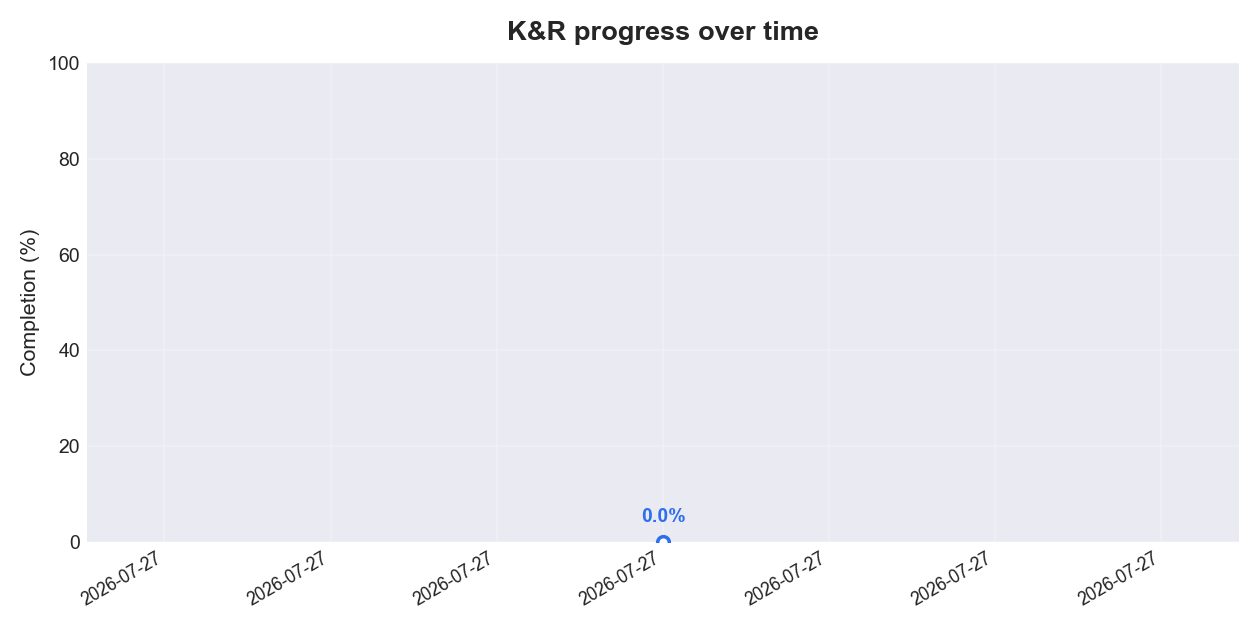
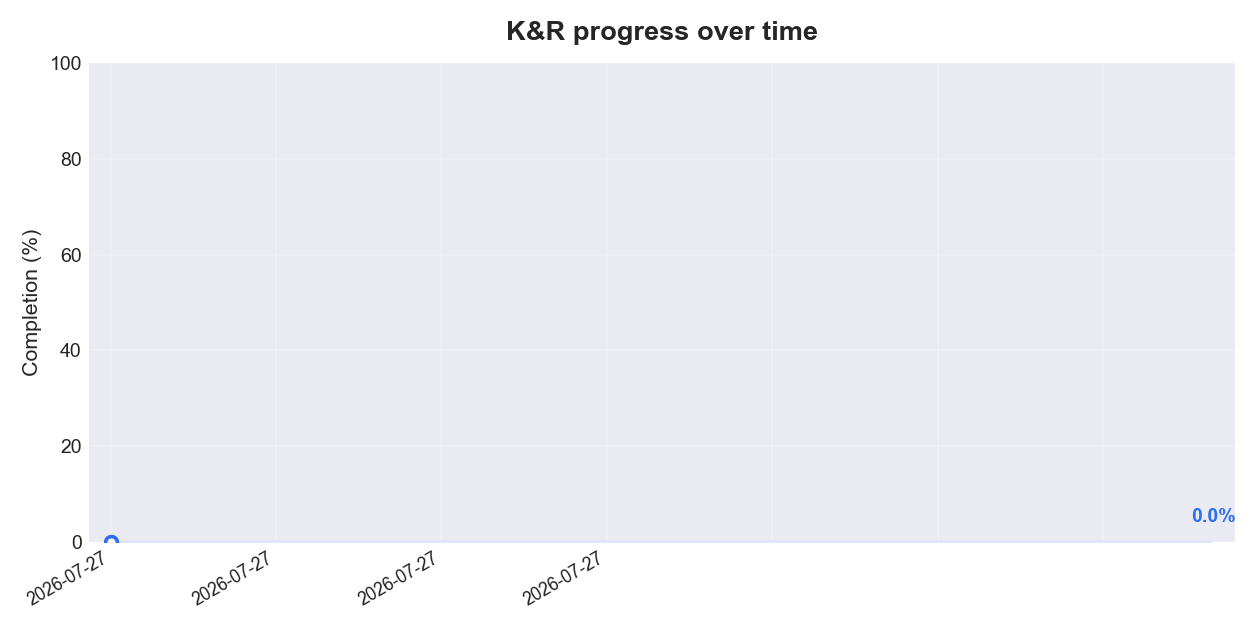
Add per-subsection breakdown to tracker

diff --git a/scripts/update_tracker.py b/scripts/update_tracker.py
@@ -48,97 +48,97 @@ SUMMARY_PLACEHOLDER = "<!-- placeholder:summary -->"
 # ---------------------------------------------------------------------------
 KR = [
     (1, "ch01-tutorial-intro", "A Tutorial Introduction", [
-        ("1.1", "1.1-getting-started"),
-        ("1.2", "1.2-variables-arithmetic"),
-        ("1.3", "1.3-for-statement"),
-        ("1.4", "1.4-symbolic-constants"),
-        ("1.5", "1.5-character-input-output"),
-        ("1.6", "1.6-arrays"),
-        ("1.7", "1.7-functions"),
-        ("1.8", "1.8-arguments-call-by-value"),
-        ("1.9", "1.9-character-arrays"),
-        ("1.10", "1.10-external-variables-scope"),
+        ("1.1", "Getting Started", "1.1-getting-started"),
+        ("1.2", "Variables and Arithmetic Expressions", "1.2-variables-arithmetic"),
+        ("1.3", "The for statement", "1.3-for-statement"),
+        ("1.4", "Symbolic Constants", "1.4-symbolic-constants"),
+        ("1.5", "Character Input and Output", "1.5-character-input-output"),
+        ("1.6", "Arrays", "1.6-arrays"),
+        ("1.7", "Functions", "1.7-functions"),
+        ("1.8", "Arguments - Call by Value", "1.8-arguments-call-by-value"),
+        ("1.9", "Character Arrays", "1.9-character-arrays"),
+        ("1.10", "External Variables and Scope", "1.10-external-variables-scope"),
     ]),
     (2, "ch02-types-operators-expressions", "Types, Operators and Expressions", [
-        ("2.1", "2.1-variable-names"),
-        ("2.2", "2.2-data-types-sizes"),
-        ("2.3", "2.3-constants"),
-        ("2.4", "2.4-declarations"),
-        ("2.5", "2.5-arithmetic-operators"),
-        ("2.6", "2.6-relational-logical-operators"),
-        ("2.7", "2.7-type-conversions"),
-        ("2.8", "2.8-increment-decrement-operators"),
-        ("2.9", "2.9-bitwise-operators"),
-        ("2.10", "2.10-assignment-operators-expressions"),
-        ("2.11", "2.11-conditional-expressions"),
-        ("2.12", "2.12-precedence-order-evaluation"),
+        ("2.1", "Variable Names", "2.1-variable-names"),
+        ("2.2", "Data Types and Sizes", "2.2-data-types-sizes"),
+        ("2.3", "Constants", "2.3-constants"),
+        ("2.4", "Declarations", "2.4-declarations"),
+        ("2.5", "Arithmetic Operators", "2.5-arithmetic-operators"),
+        ("2.6", "Relational and Logical Operators", "2.6-relational-logical-operators"),
+        ("2.7", "Type Conversions", "2.7-type-conversions"),
+        ("2.8", "Increment and Decrement Operators", "2.8-increment-decrement-operators"),
+        ("2.9", "Bitwise Operators", "2.9-bitwise-operators"),
+        ("2.10", "Assignment Operators and Expressions", "2.10-assignment-operators-expressions"),
+        ("2.11", "Conditional Expressions", "2.11-conditional-expressions"),
+        ("2.12", "Precedence and Order of Evaluation", "2.12-precedence-order-evaluation"),
     ]),
     (3, "ch03-control-flow", "Control Flow", [
-        ("3.1", "3.1-statements-blocks"),
-        ("3.2", "3.2-if-else"),
-        ("3.3", "3.3-else-if"),
-        ("3.4", "3.4-switch"),
-        ("3.5", "3.5-loops-while-for"),
-        ("3.6", "3.6-loops-do-while"),
-        ("3.7", "3.7-break-continue"),
-        ("3.8", "3.8-goto-labels"),
+        ("3.1", "Statements and Blocks", "3.1-statements-blocks"),
+        ("3.2", "If-Else", "3.2-if-else"),
+        ("3.3", "Else-If", "3.3-else-if"),
+        ("3.4", "Switch", "3.4-switch"),
+        ("3.5", "Loops - While and For", "3.5-loops-while-for"),
+        ("3.6", "Loops - Do-While", "3.6-loops-do-while"),
+        ("3.7", "Break and Continue", "3.7-break-continue"),
+        ("3.8", "Goto and labels", "3.8-goto-labels"),
     ]),
     (4, "ch04-functions-program-structure", "Functions and Program Structure", [
-        ("4.1", "4.1-basics-of-functions"),
-        ("4.2", "4.2-functions-returning-non-integers"),
-        ("4.3", "4.3-external-variables"),
-        ("4.4", "4.4-scope-rules"),
-        ("4.5", "4.5-header-files"),
-        ("4.6", "4.6-static-variables"),
-        ("4.7", "4.7-register-variables"),
-        ("4.8", "4.8-block-structure"),
-        ("4.9", "4.9-initialization"),
-        ("4.10", "4.10-recursion"),
-        ("4.11", "4.11-c-preprocessor"),
+        ("4.1", "Basics of Functions", "4.1-basics-of-functions"),
+        ("4.2", "Functions Returning Non-integers", "4.2-functions-returning-non-integers"),
+        ("4.3", "External Variables", "4.3-external-variables"),
+        ("4.4", "Scope Rules", "4.4-scope-rules"),
+        ("4.5", "Header Files", "4.5-header-files"),
+        ("4.6", "Static Variables", "4.6-static-variables"),
+        ("4.7", "Register Variables", "4.7-register-variables"),
+        ("4.8", "Block Structure", "4.8-block-structure"),
+        ("4.9", "Initialization", "4.9-initialization"),
+        ("4.10", "Recursion", "4.10-recursion"),
+        ("4.11", "The C Preprocessor", "4.11-c-preprocessor"),
     ]),
     (5, "ch05-pointers-arrays", "Pointers and Arrays", [
-        ("5.1", "5.1-pointers-addresses"),
-        ("5.2", "5.2-pointers-function-arguments"),
-        ("5.3", "5.3-pointers-arrays"),
-        ("5.4", "5.4-address-arithmetic"),
-        ("5.5", "5.5-character-pointers-functions"),
-        ("5.6", "5.6-pointer-arrays-pointers-to-pointers"),
-        ("5.7", "5.7-multi-dimensional-arrays"),
-        ("5.8", "5.8-initialization-pointer-arrays"),
-        ("5.9", "5.9-pointers-vs-multi-dimensional-arrays"),
-        ("5.10", "5.10-command-line-arguments"),
-        ("5.11", "5.11-pointers-to-functions"),
-        ("5.12", "5.12-complicated-declarations"),
+        ("5.1", "Pointers and Addresses", "5.1-pointers-addresses"),
+        ("5.2", "Pointers and Function Arguments", "5.2-pointers-function-arguments"),
+        ("5.3", "Pointers and Arrays", "5.3-pointers-arrays"),
+        ("5.4", "Address Arithmetic", "5.4-address-arithmetic"),
+        ("5.5", "Character Pointers and Functions", "5.5-character-pointers-functions"),
+        ("5.6", "Pointer Arrays; Pointers to Pointers", "5.6-pointer-arrays-pointers-to-pointers"),
+        ("5.7", "Multi-dimensional Arrays", "5.7-multi-dimensional-arrays"),
+        ("5.8", "Initialization of Pointer Arrays", "5.8-initialization-pointer-arrays"),
+        ("5.9", "Pointers vs. Multi-dimensional Arrays", "5.9-pointers-vs-multi-dimensional-arrays"),
+        ("5.10", "Command-line Arguments", "5.10-command-line-arguments"),
+        ("5.11", "Pointers to Functions", "5.11-pointers-to-functions"),
+        ("5.12", "Complicated Declarations", "5.12-complicated-declarations"),
     ]),
     (6, "ch06-structures", "Structures", [
-        ("6.1", "6.1-basics-of-structures"),
-        ("6.2", "6.2-structures-functions"),
-        ("6.3", "6.3-arrays-of-structures"),
-        ("6.4", "6.4-pointers-to-structures"),
-        ("6.5", "6.5-self-referential-structures"),
-        ("6.6", "6.6-table-lookup"),
-        ("6.7", "6.7-typedef"),
-        ("6.8", "6.8-unions"),
-        ("6.9", "6.9-bit-fields"),
+        ("6.1", "Basics of Structures", "6.1-basics-of-structures"),
+        ("6.2", "Structures and Functions", "6.2-structures-functions"),
+        ("6.3", "Arrays of Structures", "6.3-arrays-of-structures"),
+        ("6.4", "Pointers to Structures", "6.4-pointers-to-structures"),
+        ("6.5", "Self-referential Structures", "6.5-self-referential-structures"),
+        ("6.6", "Table Lookup", "6.6-table-lookup"),
+        ("6.7", "Typedef", "6.7-typedef"),
+        ("6.8", "Unions", "6.8-unions"),
+        ("6.9", "Bit-fields", "6.9-bit-fields"),
     ]),
     (7, "ch07-input-output", "Input and Output", [
-        ("7.1", "7.1-standard-input-output"),
-        ("7.2", "7.2-formatted-output-printf"),
-        ("7.3", "7.3-variable-length-argument-lists"),
-        ("7.4", "7.4-formatted-input-scanf"),
-        ("7.5", "7.5-file-access"),
-        ("7.6", "7.6-error-handling-stderr-exit"),
-        ("7.7", "7.7-line-input-output"),
-        ("7.8", "7.8-miscellaneous-functions"),
+        ("7.1", "Standard Input and Output", "7.1-standard-input-output"),
+        ("7.2", "Formatted Output - printf", "7.2-formatted-output-printf"),
+        ("7.3", "Variable-length Argument Lists", "7.3-variable-length-argument-lists"),
+        ("7.4", "Formatted Input - Scanf", "7.4-formatted-input-scanf"),
+        ("7.5", "File Access", "7.5-file-access"),
+        ("7.6", "Error Handling - Stderr and Exit", "7.6-error-handling-stderr-exit"),
+        ("7.7", "Line Input and Output", "7.7-line-input-output"),
+        ("7.8", "Miscellaneous Functions", "7.8-miscellaneous-functions"),
     ]),
     (8, "ch08-unix-system-interface", "The UNIX System Interface", [
-        ("8.1", "8.1-file-descriptors"),
-        ("8.2", "8.2-low-level-io-read-write"),
-        ("8.3", "8.3-open-creat-close-unlink"),
-        ("8.4", "8.4-random-access-lseek"),
-        ("8.5", "8.5-example-implementation-fopen-getc"),
-        ("8.6", "8.6-example-listing-directories"),
-        ("8.7", "8.7-example-storage-allocator"),
+        ("8.1", "File Descriptors", "8.1-file-descriptors"),
+        ("8.2", "Low Level I/O - Read and Write", "8.2-low-level-io-read-write"),
+        ("8.3", "Open, Creat, Close, Unlink", "8.3-open-creat-close-unlink"),
+        ("8.4", "Random Access - Lseek", "8.4-random-access-lseek"),
+        ("8.5", "Example - An implementation of Fopen and Getc", "8.5-example-implementation-fopen-getc"),
+        ("8.6", "Example - Listing Directories", "8.6-example-listing-directories"),
+        ("8.7", "Example - A Storage Allocator", "8.7-example-storage-allocator"),
     ]),
 ]
 
@@ -199,7 +199,7 @@ def scan():
         chdir = os.path.join(REPO_ROOT, chfolder)
 
         sec_rows = []
-        for secnum, secfolder in sections:
+        for secnum, sectitle, secfolder in sections:
             secdir = os.path.join(chdir, secfolder)
             notes_path = os.path.join(secdir, "notes-%s.md" % secnum)
             ex_dir = os.path.join(secdir, "exercises")
@@ -207,6 +207,7 @@ def scan():
 
             sec_rows.append({
                 "number": secnum,
+                "title": sectitle,
                 "exists": os.path.isdir(secdir),
                 "notes_done": notes_is_real(notes_path),
                 "ex_total": count_exercises(ex_md),
@@ -345,12 +346,16 @@ def write_tracker(chapters, t):
     lines.append("| Chapter summaries | %d | %d |" % (t["summaries_done"], t["total_chapters"]))
     lines.append("| Exercises solved | %d | %d |" % (t["ex_solved"], t["ex_total"]))
     lines.append("")
+    lines.append("## Progress over time")
+    lines.append("")
     lines.append("![Progress over time](progress/progress.png)")
     lines.append("")
+
+    # --- By chapter -------------------------------------------------------
     lines.append("## By chapter")
     lines.append("")
     lines.append("| Chapter | Notes | Summary | Exercises |")
-    lines.append("| --- | --- | --- | --- |")
+    lines.append("| --- | :---: | :---: | :---: |")
 
     for c in chapters:
         notes_done = sum(1 for s in c["sections"] if s["notes_done"])
@@ -364,9 +369,35 @@ def write_tracker(chapters, t):
             name, notes_done, notes_total, summary_cell, ex_solved, ex_total))
 
     lines.append("")
-    lines.append("Legend: Summary shows `yes` when written, `no` when the chapter's "
-                 "sections are all done but the summary is still missing, and `-` "
-                 "while the chapter is not finished yet.")
+    lines.append("**Legend (Summary column):** `yes` = summary written, "
+                 "`no` = all sections in the chapter are done but the summary is "
+                 "not written yet, `-` = chapter not finished yet so no summary is "
+                 "expected.")
+    lines.append("")
+
+    # --- By subsection ----------------------------------------------------
+    lines.append("## By subsection")
+    lines.append("")
+    for c in chapters:
+        lines.append("### Chapter %d - %s" % (c["number"], c["title"]))
+        lines.append("")
+        lines.append("| Section | Title | Notes | Exercises |")
+        lines.append("| :---: | --- | :---: | :---: |")
+        for s in c["sections"]:
+            if not s["exists"]:
+                notes_cell = "-"
+            elif s["notes_done"]:
+                notes_cell = "yes"
+            else:
+                notes_cell = "no"
+            solved = min(s["ex_solved"], s["ex_total"]) if s["ex_total"] else 0
+            lines.append("| %s | %s | %s | %d / %d |" % (
+                s["number"], s["title"], notes_cell, solved, s["ex_total"]))
+        lines.append("")
+
+    lines.append("**Legend (Notes column):** `yes` = notes written, "
+                 "`no` = section folder exists but notes are still empty, "
+                 "`-` = section folder not created yet.")
     lines.append("")
 
     with open(TRACKER_MD, "w", encoding="utf-8") as f:

diff --git a/TRACKER.md b/TRACKER.md
@@ -14,12 +14,14 @@ _Last updated: 2026-07-27_
 | Chapter summaries | 0 | 8 |
 | Exercises solved | 0 | 0 |
 
+## Progress over time
+
 ![Progress over time](progress/progress.png)
 
 ## By chapter
 
 | Chapter | Notes | Summary | Exercises |
-| --- | --- | --- | --- |
+| --- | :---: | :---: | :---: |
 | 1. A Tutorial Introduction | 0 / 10 | - | 0 / 0 |
 | 2. Types, Operators and Expressions | 0 / 12 | - | 0 / 0 |
 | 3. Control Flow | 0 / 8 | - | 0 / 0 |
@@ -29,4 +31,125 @@ _Last updated: 2026-07-27_
 | 7. Input and Output | 0 / 8 | - | 0 / 0 |
 | 8. The UNIX System Interface | 0 / 7 | - | 0 / 0 |
 
-Legend: Summary shows `yes` when written, `no` when the chapter's sections are all done but the summary is still missing, and `-` while the chapter is not finished yet.
+**Legend (Summary column):** `yes` = summary written, `no` = all sections in the chapter are done but the summary is not written yet, `-` = chapter not finished yet so no summary is expected.
+
+## By subsection
+
+### Chapter 1 - A Tutorial Introduction
+
+| Section | Title | Notes | Exercises |
+| :---: | --- | :---: | :---: |
+| 1.1 | Getting Started | - | 0 / 0 |
+| 1.2 | Variables and Arithmetic Expressions | - | 0 / 0 |
+| 1.3 | The for statement | - | 0 / 0 |
+| 1.4 | Symbolic Constants | - | 0 / 0 |
+| 1.5 | Character Input and Output | - | 0 / 0 |
+| 1.6 | Arrays | - | 0 / 0 |
+| 1.7 | Functions | - | 0 / 0 |
+| 1.8 | Arguments - Call by Value | - | 0 / 0 |
+| 1.9 | Character Arrays | - | 0 / 0 |
+| 1.10 | External Variables and Scope | - | 0 / 0 |
+
+### Chapter 2 - Types, Operators and Expressions
+
+| Section | Title | Notes | Exercises |
+| :---: | --- | :---: | :---: |
+| 2.1 | Variable Names | - | 0 / 0 |
+| 2.2 | Data Types and Sizes | - | 0 / 0 |
+| 2.3 | Constants | - | 0 / 0 |
+| 2.4 | Declarations | - | 0 / 0 |
+| 2.5 | Arithmetic Operators | - | 0 / 0 |
+| 2.6 | Relational and Logical Operators | - | 0 / 0 |
+| 2.7 | Type Conversions | - | 0 / 0 |
+| 2.8 | Increment and Decrement Operators | - | 0 / 0 |
+| 2.9 | Bitwise Operators | - | 0 / 0 |
+| 2.10 | Assignment Operators and Expressions | - | 0 / 0 |
+| 2.11 | Conditional Expressions | - | 0 / 0 |
+| 2.12 | Precedence and Order of Evaluation | - | 0 / 0 |
+
+### Chapter 3 - Control Flow
+
+| Section | Title | Notes | Exercises |
+| :---: | --- | :---: | :---: |
+| 3.1 | Statements and Blocks | - | 0 / 0 |
+| 3.2 | If-Else | - | 0 / 0 |
+| 3.3 | Else-If | - | 0 / 0 |
+| 3.4 | Switch | - | 0 / 0 |
+| 3.5 | Loops - While and For | - | 0 / 0 |
+| 3.6 | Loops - Do-While | - | 0 / 0 |
+| 3.7 | Break and Continue | - | 0 / 0 |
+| 3.8 | Goto and labels | - | 0 / 0 |
+
+### Chapter 4 - Functions and Program Structure
+
+| Section | Title | Notes | Exercises |
+| :---: | --- | :---: | :---: |
+| 4.1 | Basics of Functions | - | 0 / 0 |
+| 4.2 | Functions Returning Non-integers | - | 0 / 0 |
+| 4.3 | External Variables | - | 0 / 0 |
+| 4.4 | Scope Rules | - | 0 / 0 |
+| 4.5 | Header Files | - | 0 / 0 |
+| 4.6 | Static Variables | - | 0 / 0 |
+| 4.7 | Register Variables | - | 0 / 0 |
+| 4.8 | Block Structure | - | 0 / 0 |
+| 4.9 | Initialization | - | 0 / 0 |
+| 4.10 | Recursion | - | 0 / 0 |
+| 4.11 | The C Preprocessor | - | 0 / 0 |
+
+### Chapter 5 - Pointers and Arrays
+
+| Section | Title | Notes | Exercises |
+| :---: | --- | :---: | :---: |
+| 5.1 | Pointers and Addresses | - | 0 / 0 |
+| 5.2 | Pointers and Function Arguments | - | 0 / 0 |
+| 5.3 | Pointers and Arrays | - | 0 / 0 |
+| 5.4 | Address Arithmetic | - | 0 / 0 |
+| 5.5 | Character Pointers and Functions | - | 0 / 0 |
+| 5.6 | Pointer Arrays; Pointers to Pointers | - | 0 / 0 |
+| 5.7 | Multi-dimensional Arrays | - | 0 / 0 |
+| 5.8 | Initialization of Pointer Arrays | - | 0 / 0 |
+| 5.9 | Pointers vs. Multi-dimensional Arrays | - | 0 / 0 |
+| 5.10 | Command-line Arguments | - | 0 / 0 |
+| 5.11 | Pointers to Functions | - | 0 / 0 |
+| 5.12 | Complicated Declarations | - | 0 / 0 |
+
+### Chapter 6 - Structures
+
+| Section | Title | Notes | Exercises |
+| :---: | --- | :---: | :---: |
+| 6.1 | Basics of Structures | - | 0 / 0 |
+| 6.2 | Structures and Functions | - | 0 / 0 |
+| 6.3 | Arrays of Structures | - | 0 / 0 |
+| 6.4 | Pointers to Structures | - | 0 / 0 |
+| 6.5 | Self-referential Structures | - | 0 / 0 |
+| 6.6 | Table Lookup | - | 0 / 0 |
+| 6.7 | Typedef | - | 0 / 0 |
+| 6.8 | Unions | - | 0 / 0 |
+| 6.9 | Bit-fields | - | 0 / 0 |
+
+### Chapter 7 - Input and Output
+
+| Section | Title | Notes | Exercises |
+| :---: | --- | :---: | :---: |
+| 7.1 | Standard Input and Output | - | 0 / 0 |
+| 7.2 | Formatted Output - printf | - | 0 / 0 |
+| 7.3 | Variable-length Argument Lists | - | 0 / 0 |
+| 7.4 | Formatted Input - Scanf | - | 0 / 0 |
+| 7.5 | File Access | - | 0 / 0 |
+| 7.6 | Error Handling - Stderr and Exit | - | 0 / 0 |
+| 7.7 | Line Input and Output | - | 0 / 0 |
+| 7.8 | Miscellaneous Functions | - | 0 / 0 |
+
+### Chapter 8 - The UNIX System Interface
+
+| Section | Title | Notes | Exercises |
+| :---: | --- | :---: | :---: |
+| 8.1 | File Descriptors | - | 0 / 0 |
+| 8.2 | Low Level I/O - Read and Write | - | 0 / 0 |
+| 8.3 | Open, Creat, Close, Unlink | - | 0 / 0 |
+| 8.4 | Random Access - Lseek | - | 0 / 0 |
+| 8.5 | Example - An implementation of Fopen and Getc | - | 0 / 0 |
+| 8.6 | Example - Listing Directories | - | 0 / 0 |
+| 8.7 | Example - A Storage Allocator | - | 0 / 0 |
+
+**Legend (Notes column):** `yes` = notes written, `no` = section folder exists but notes are still empty, `-` = section folder not created yet.
